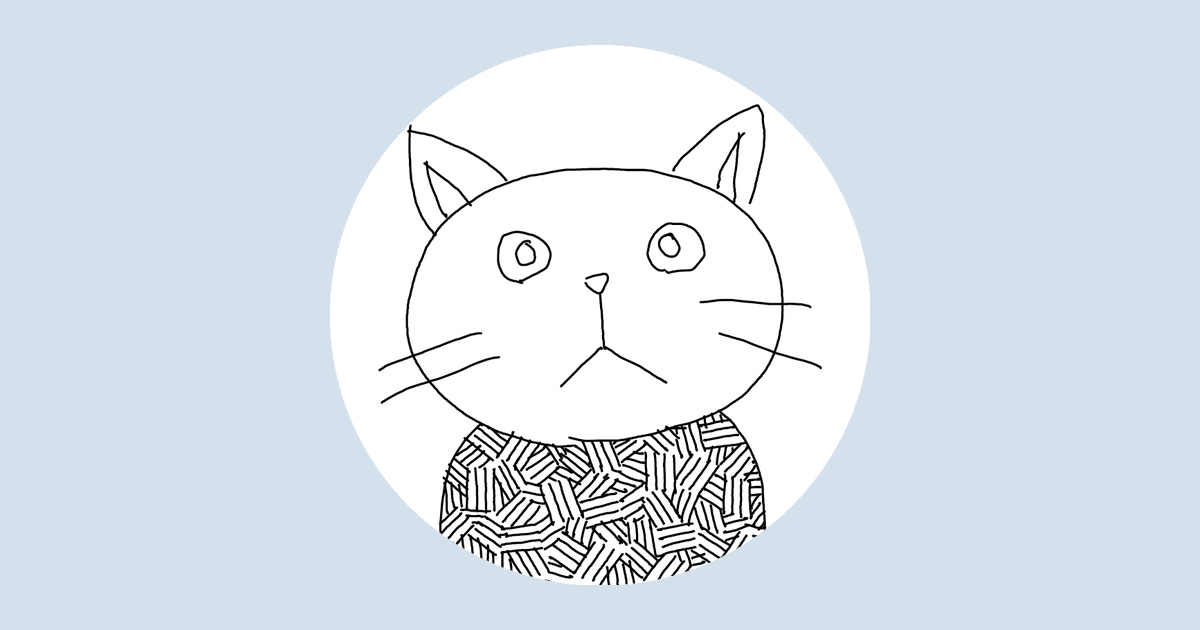
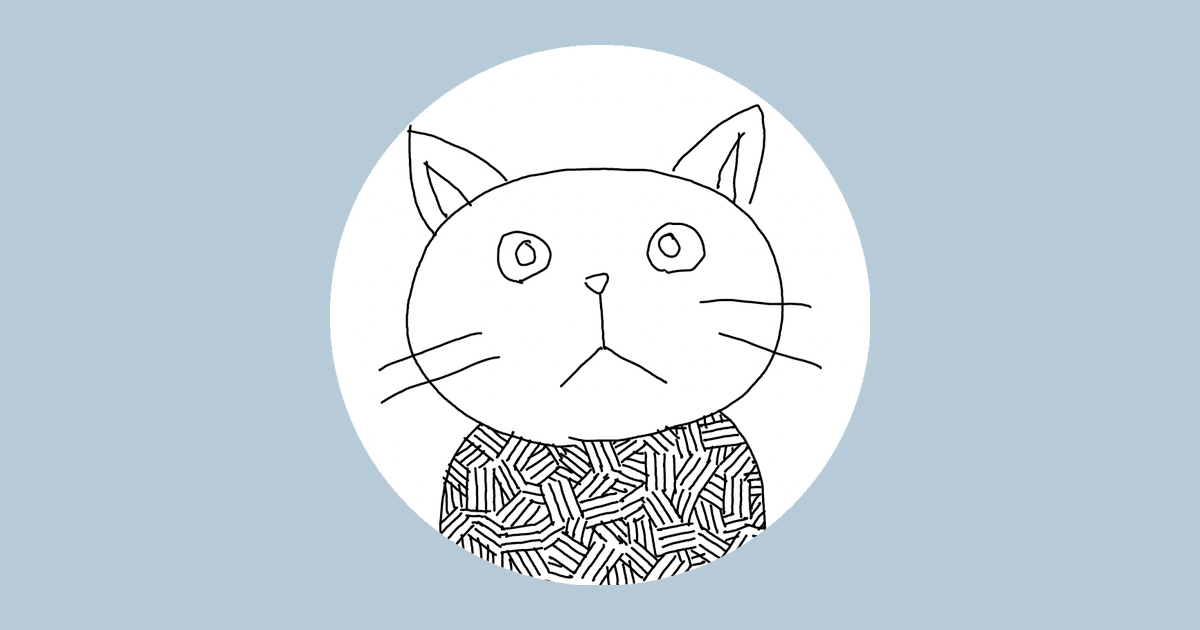
Use Viridis colormap for OG image backgrounds
- Replace HSL-based pastel generator with matplotlib Viridis colormap
- Lighten Viridis colors (0.65 blend toward white) for icon visibility
- Update why-quarto post to document the new approach

diff --git a/scripts/generate_og.py b/scripts/generate_og.py
@@ -19,6 +19,7 @@ import re
 import sys
 from pathlib import Path
 
+import matplotlib.cm as cm
 from PIL import Image, ImageDraw
 
 # --- Configuration ---
@@ -30,16 +31,24 @@ CIRCLE_RADIUS = 390
 CX_SRC, CY_SRC = 440, 382
 # Circle diameter in OG image
 TARGET_DIAMETER = 540
-# HSL parameters for pastel background
-SATURATION = 0.40
-LIGHTNESS = 0.88
+# Lightness boost for Viridis background (0.0 = original, 1.0 = white)
+VIRIDIS_LIGHTEN = 0.65
 
 
-def slug_to_pastel(slug: str) -> tuple[int, int, int]:
-    """Convert a slug to a deterministic pastel RGB color."""
+def slug_to_viridis(slug: str) -> tuple[int, int, int]:
+    """Convert a slug to a deterministic Viridis-based RGB color.
+
+    Maps the slug's MD5 hash to a position on the Viridis colormap,
+    then lightens the result so it works as a background behind the
+    white-circled cat icon.
+    """
     hv = int(hashlib.md5(slug.encode()).hexdigest(), 16)
-    hue = (hv % 360) / 360.0
-    r, g, b = colorsys.hls_to_rgb(hue, LIGHTNESS, SATURATION)
+    t = (hv % 10000) / 10000.0
+    r, g, b, _ = cm.viridis(t)
+    # Lighten: blend toward white
+    r = r + (1.0 - r) * VIRIDIS_LIGHTEN
+    g = g + (1.0 - g) * VIRIDIS_LIGHTEN
+    b = b + (1.0 - b) * VIRIDIS_LIGHTEN
     return (int(r * 255), int(g * 255), int(b * 255))
 
 
@@ -70,7 +79,7 @@ def build_circle_icon(icon_path: Path) -> Image.Image:
 
 def generate_og(circle_icon: Image.Image, slug: str, output_path: Path) -> None:
     """Generate an OG image for a given slug."""
-    bg_color = slug_to_pastel(slug)
+    bg_color = slug_to_viridis(slug)
     og = Image.new("RGBA", (OG_WIDTH, OG_HEIGHT), bg_color + (255,))
 
     scale = TARGET_DIAMETER / (CIRCLE_RADIUS * 2)
